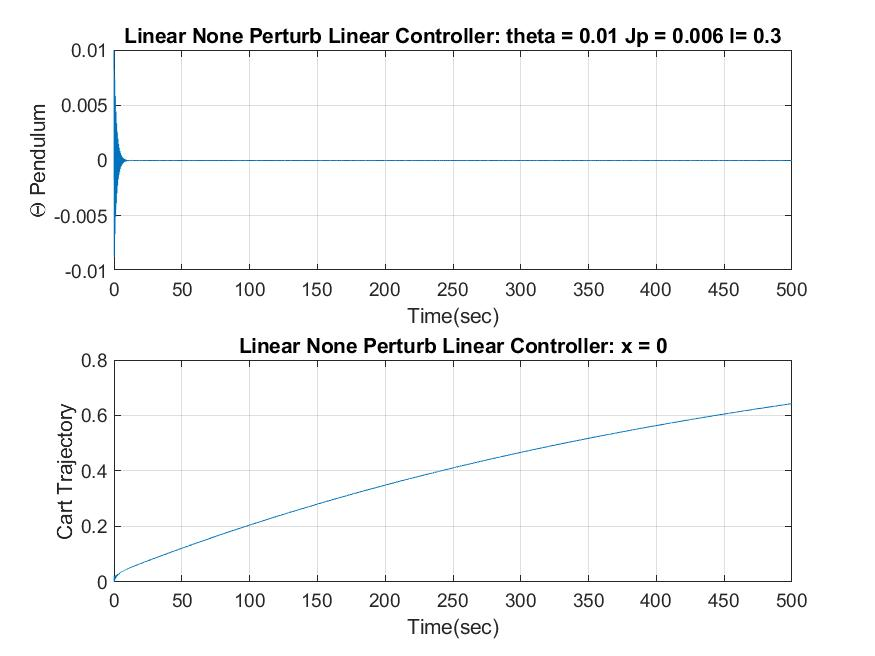
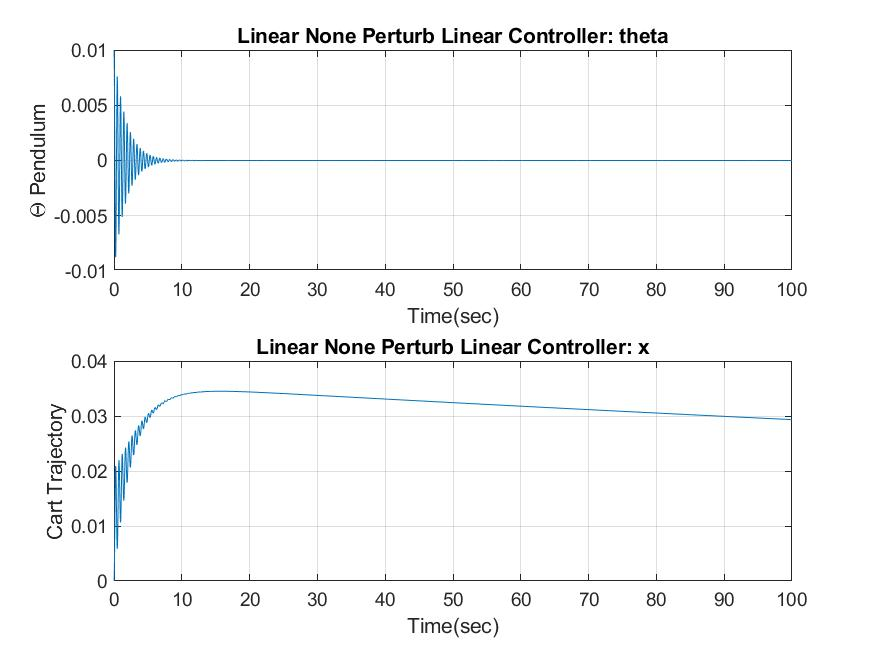
xx

diff --git a/hw5/project/part1/L_P_Linear_controller/Simulation.m b/hw5/project/part1/L_P_Linear_controller/Simulation.m
@@ -1,5 +1,5 @@
 % Time
-tmax = 50;
+tmax = 100;
 tspan = [0, tmax];
 
 x_0 = 0;
@@ -25,14 +25,14 @@ figure(1);
     plot(t, theta);
     xlabel('Time(sec)');
     ylabel('Pendulum Theta');
-    title(['Linear Perturb Linear Controller: theta = ',num2str(theta_0),' Jp = ',num2str(Jp),' l= ',num2str(l)])  %---------------------------
+    title('Linear Perturb Linear Controller: theta ')  %---------------------------
     grid on;
 
     subplot(2,1,2);
     plot(t, x);
     xlabel('Time(sec)');
     ylabel('Cart trajectory');
-    title(['Linear Perturb Linear Controller: x = ',num2str(x_0)])   %---------------------------
+    title('Linear Perturb Linear Controller: x ')   %---------------------------
     grid on;
 
-saveas(figure(1),'Linear Perturb Linear_sys_P_linear_cntl.jpg');
+saveas(figure(1),'Linear Perturb Linear.jpg');

diff --git a/hw5/project/part1/L_NP_Linear_controller/Simulation.m b/hw5/project/part1/L_NP_Linear_controller/Simulation.m
@@ -1,5 +1,5 @@
 % Time
-tmax = 500;
+tmax = 100;
 tspan = [0, tmax];
 
 x_0 = 0;
@@ -24,14 +24,14 @@ figure(1);
     plot(t, theta);
     xlabel('Time(sec)');
     ylabel('\Theta Pendulum');
-    title(['Linear None Perturb Linear Controller: theta = ',num2str(theta_0),' Jp = ',num2str(Jp),' l= ',num2str(l)])  %---------------------------
+    title('Linear None Perturb Linear Controller: theta')  %---------------------------
     grid on;
 
     subplot(2,1,2);
     plot(t, x);
     xlabel('Time(sec)');
     ylabel('Cart Trajectory');
-    title(['Linear None Perturb Linear Controller: x = ',num2str(x_0)])   %---------------------------
+    title('Linear None Perturb Linear Controller: x')   %---------------------------
     grid on;
 
 saveas(figure(1),'Linear Non-Perturb Linear.jpg');

diff --git a/hw5/project/part1/L_NP_Linear_controller/linear_function.m b/hw5/project/part1/L_NP_Linear_controller/linear_function.m
@@ -27,8 +27,8 @@ B = [0;0;b*alpha*L;-b*alpha];
 p = [-0.002, -0.56+13j, -0.56-13j ,-0.3]; %[-0.5,-1,-1-j,-1+j];
 k = place(A,B,p); %scalar
 
-r = [1;0;0;0];
-u = -k*(sys_states-r);  %-------------------------
+
+u = -k*(sys_states);  %-------------------------
 sys_states_dot = A*sys_states + B*u;
 
 end

diff --git a/hw5/project/part1/NL_NP_Linear_controller/nonlinear_function.m b/hw5/project/part1/NL_NP_Linear_controller/nonlinear_function.m
@@ -37,7 +37,6 @@ C = [ 0    0    0              0 ;
 p = [-0.0017, -0.555+13j, -0.555-13j ,-0.3]; %[-0.5,-1,-1-j,-1+j];
 k = place(A,B,p);
 
-r = 1;
 
 u = -k*sys_states;
 sys_states_dot = A*sys_states + B*u + C*sys_states.^2;

diff --git a/hw5/project/part1/NL_P_Linear_controller/Simulation.m b/hw5/project/part1/NL_P_Linear_controller/Simulation.m
@@ -35,3 +35,6 @@ figure(1);
     ylabel('Cart trajectory');
     title('Nonlinear system Perturb: x')   %---------------------------
     grid on;
+
+ 
+saveas(figure(1),'Nonlinear Perturb Linear.jpg');

diff --git a/hw5/project/part1/NL_NP_Linear_controller/Simulation.m b/hw5/project/part1/NL_NP_Linear_controller/Simulation.m
@@ -35,3 +35,4 @@ figure(1);
     ylabel('Cart trajectory');
     title('Nonlinear system: x')   %---------------------------
     grid on;
+saveas(figure(1),'Nonlinear Non-Perturb Linear.jpg');
